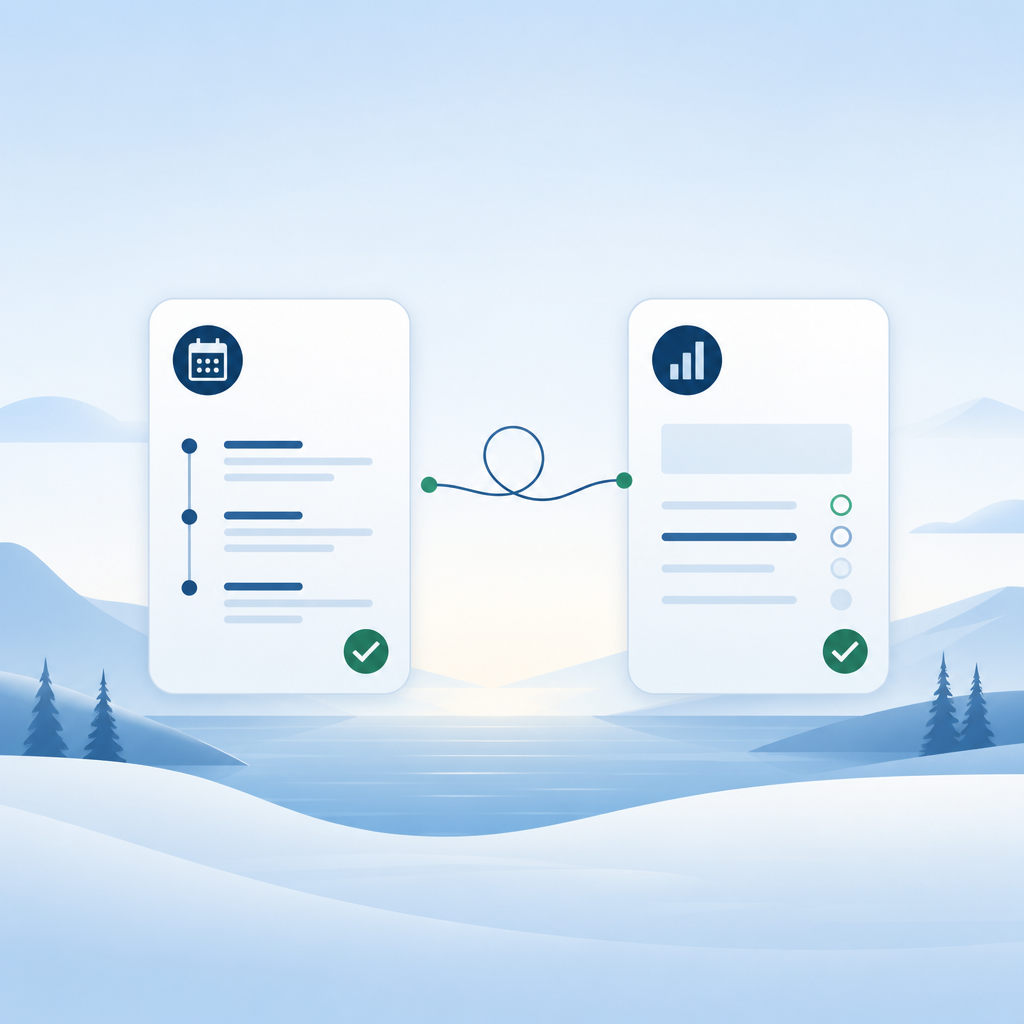
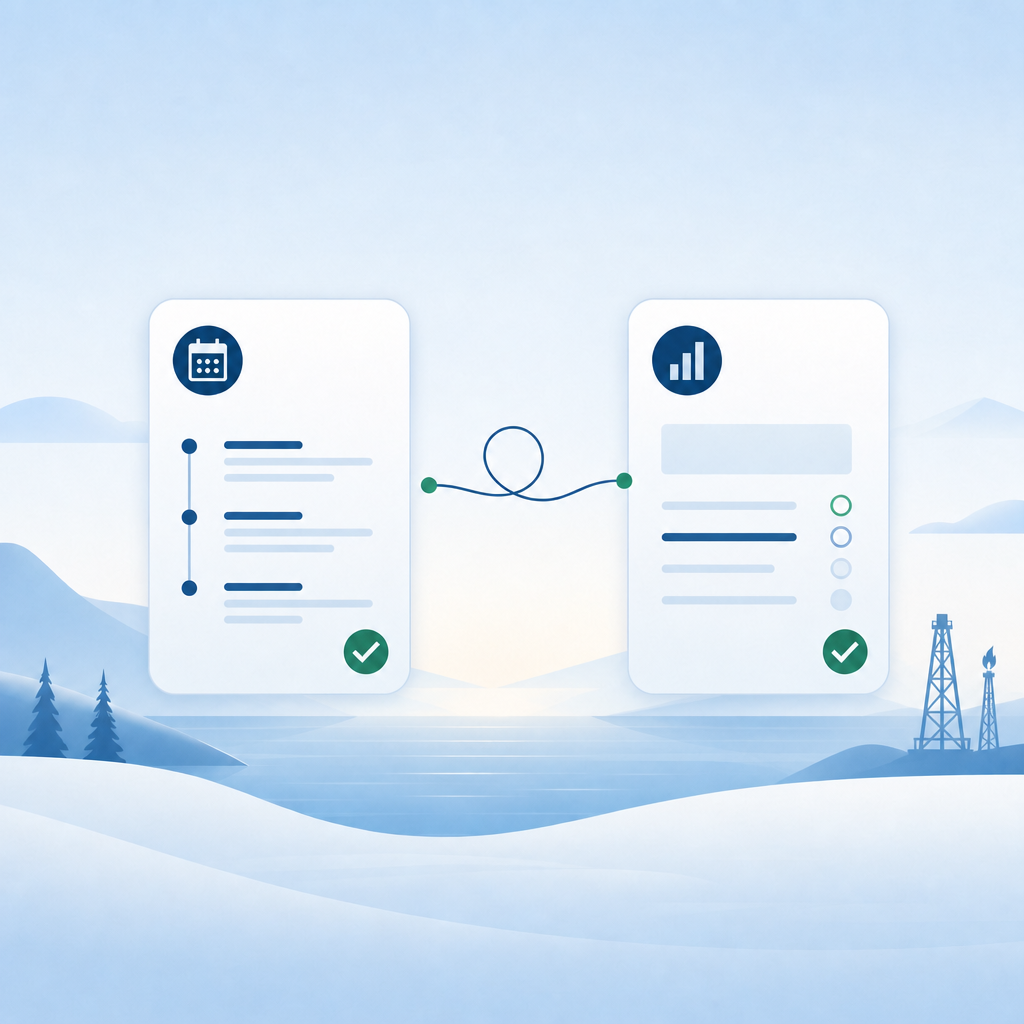
В северный визуал 1:1: буровая и факел вместо одной группы ёлок.

diff --git a/docs/brand/visualizations/viz-severnyy-stazh.md b/docs/brand/visualizations/viz-severnyy-stazh.md
@@ -5,11 +5,11 @@
 **Связанная ассоциация:** [assoc-severnyy-stazh.md](../associations/assoc-severnyy-stazh.md)  
 **Формат:** обложка сегмента / пост / иллюстрация статьи  
 **Размер / пропорции:** 16:9 и 1:1  
-**Главный символ (один):** две колонки-карточки «периоды» и «коэффициент» на фоне спокойного северного горизонта; непрерывная линия трудового пути  
+**Главный символ (один):** две колонки-карточки «периоды» и «коэффициент» на фоне спокойного северного горизонта; непрерывная линия трудового пути; в пейзаже — силуэт буровой вышки и факела (вместо одной группы ёлок), без драмы  
 **Настроение:** уважение к труду, ясность, без плаката  
 **Текст на изображении (если нужен):** без текста предпочтительно  
 **Цвета:** холодный светлый фон + `#1e4e79`; зелёный `#2e7d5b` только как акцент «проверено»  
-**Запреты:** медведь/ушанка-шутка, «север = автоматом больше пенсия», агитплакат, герб  
+**Запреты:** медведь/ушанка-шутка, «север = автоматом больше пенсия», агитплакат, герб, огненный апокалипсис вместо спокойного факела  
 **Критерий приёмки (3 секунды):** видно раздельную сверку оснований, не клише Севера  
 **Редакторский тест (v2):** уважение к трудовой биографии + понятный следующий шаг?  
 **Статус:** на согласовании  

diff --git a/docs/brand/associations/assoc-severnyy-stazh.md b/docs/brand/associations/assoc-severnyy-stazh.md
@@ -30,6 +30,8 @@
 
 Две колонки-карточки «периоды» и «коэффициент» на фоне спокойного северного
 горизонта; через них проходит непрерывная линия трудового пути человека.
+В пейзаже — силуэт буровой вышки и факела (северная трудовая реальность),
+без плаката и без «медведя в ушанке».
 
 ## Редакторский тест (v2)
 
